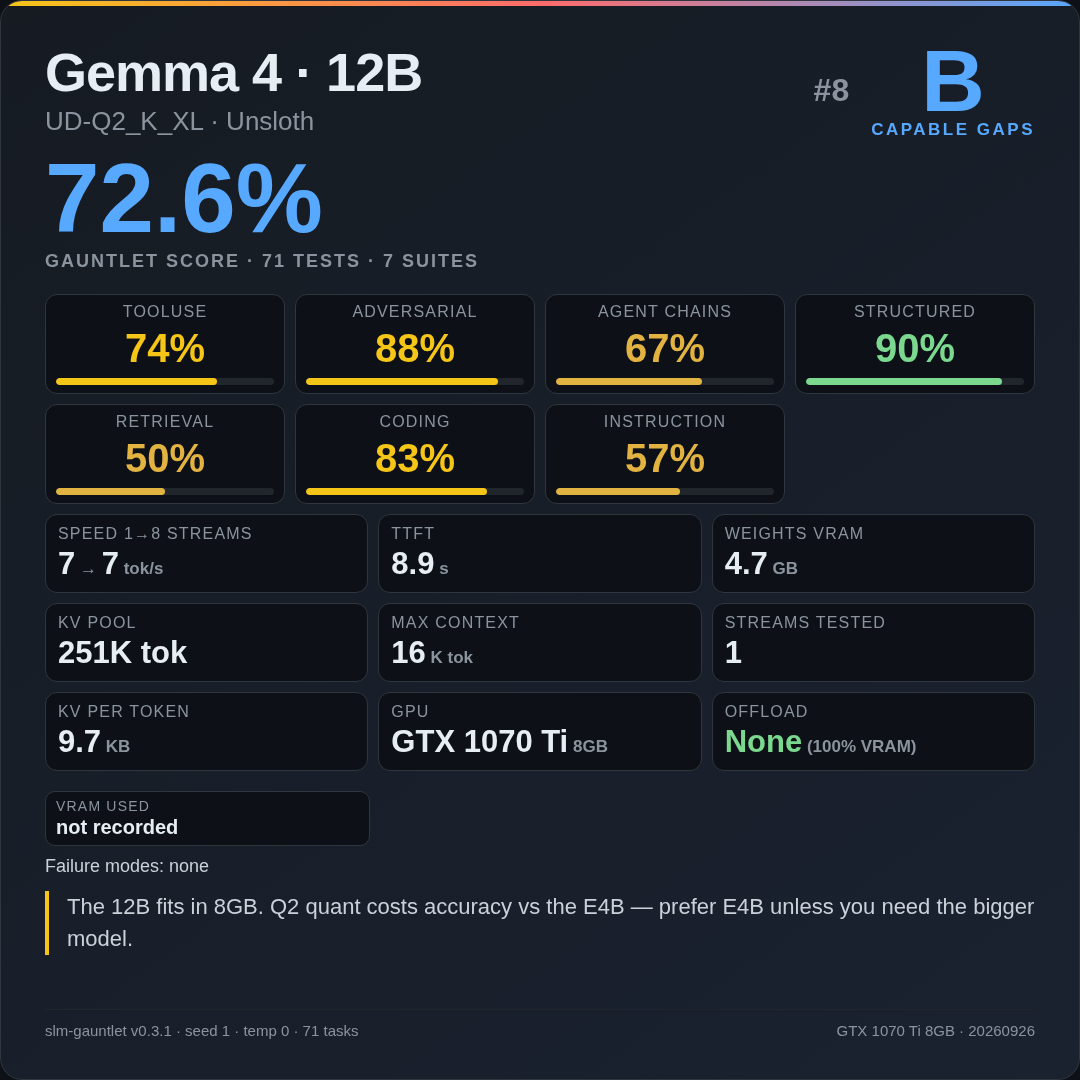
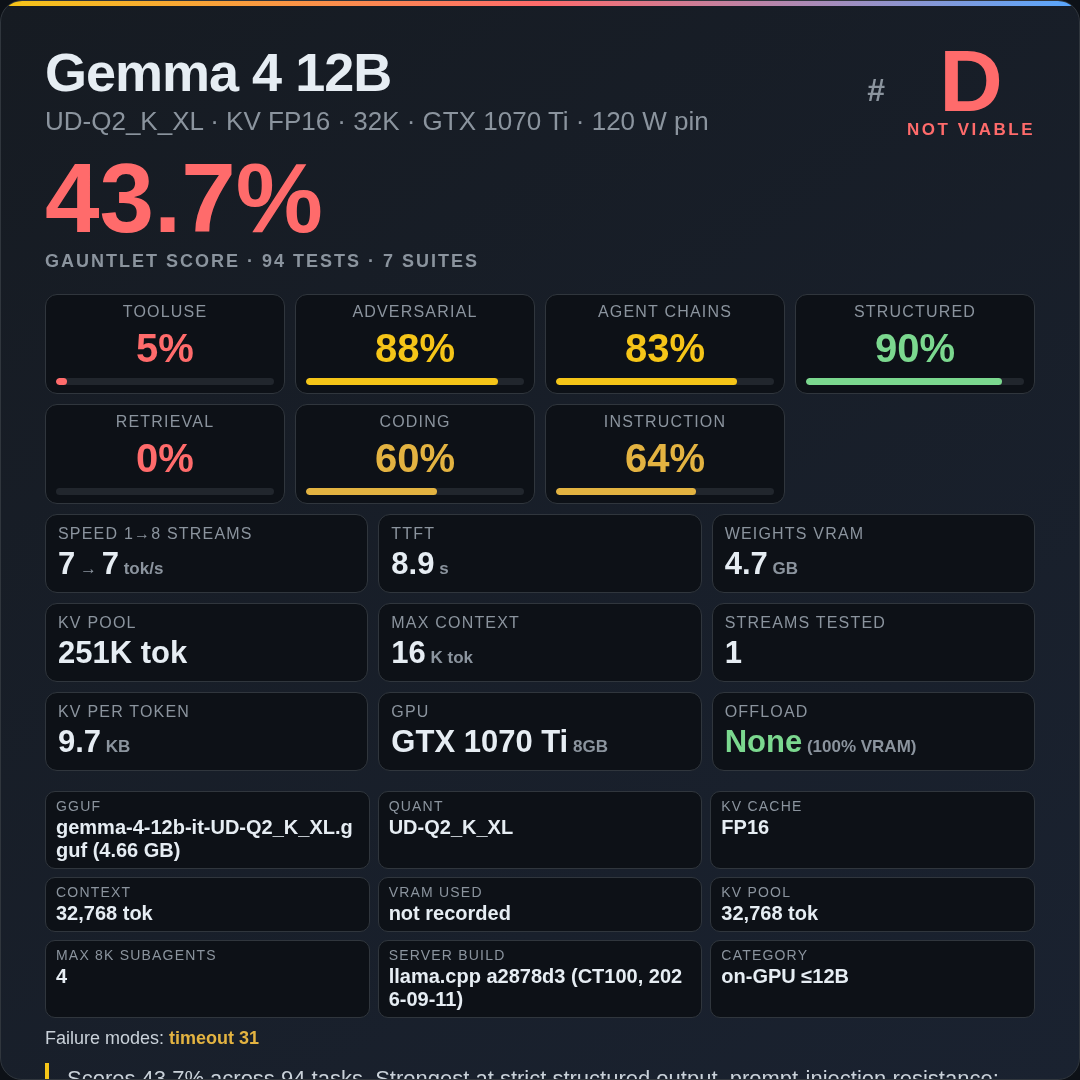
sweep complete: gemma4-12b-ud-q2_K_XL is the last configuration, measured 43.7% at 94 tasks
The 0.5.0 corpus is now measured end to end: 48 manifest configurations, 5 documented
exclusions (arch `dory`/`lfm3` cannot load on llama.cpp a2878d3), and 43 full 94-task runs
under the verified 120 W sustained pin.

The last one took 11,535 s (3h12m) on the 1070 Ti and is a genuine result, not a timeout
artifact: meta says attempts=102 for 94 tasks, zero_token_errors=0, transport_failure=false,
and it lands at 43.7% with tool 5% / retrieval 0% - a 12B at Q2 that fails the long-context
and tool-use suites on this card. It also drops from 72.6% at 71 tasks (pre-0.5.0), which is
why the two epochs are never printed in one table.

README: 16 ranked families, best on-GPU Bolt E4B UD-IQ3_XXS KV FP16 86.6%; Gemma 4 12B sits
last at 43.7%. leaderboard_check.py exits 0 on the corpus (268 cards), 190 tests pass.

diff --git a/results/cards/card_gemma4-12b-ud-q2_K_XL.html b/results/cards/card_gemma4-12b-ud-q2_K_XL.html
@@ -42,4 +42,4 @@ html,body { width:1080px; height:1080px; overflow:hidden; margin:0;
 @media (max-height:1080px){ .stat{padding:10px 12px} }
 .bar { height:7px; border-radius:4px; background:#21262d; margin-top:7px; overflow:hidden; }
 .bar>i { display:block; height:100%; border-radius:4px; }
-</style></head><body><div class=card><div class=hrow> <div><div class=model-name>Gemma 4 · 12B</div><div class=model-quant>UD-Q2_K_XL · Unsloth</div></div><div class=rank><span class=rank-num>#8</span><div><div class=rank-letter style="color:#57a8ff">B</div><div class=rank-label style="color:#57a8ff">CAPABLE GAPS</div></div></div></div><div class=scoreband><div><span class=overall-pct style="color:#57a8ff">72.6%</span><div class=overall-sub>GAUNTLET SCORE · 71 TESTS · 7 SUITES</div></div></div><div class=suites><div class=suite><div class=suite-name>tooluse</div><div class=suite-val style="color:#f5c518">74%</div><div class=bar><i style="width:74%;background:#f5c518"></i></div></div><div class=suite><div class=suite-name>adversarial</div><div class=suite-val style="color:#f5c518">88%</div><div class=bar><i style="width:88%;background:#f5c518"></i></div></div><div class=suite><div class=suite-name>agent chains</div><div class=suite-val style="color:#e3b341">67%</div><div class=bar><i style="width:67%;background:#e3b341"></i></div></div><div class=suite><div class=suite-name>structured</div><div class=suite-val style="color:#7bd88f">90%</div><div class=bar><i style="width:90%;background:#7bd88f"></i></div></div><div class=suite><div class=suite-name>retrieval</div><div class=suite-val style="color:#e3b341">50%</div><div class=bar><i style="width:50%;background:#e3b341"></i></div></div><div class=suite><div class=suite-name>coding</div><div class=suite-val style="color:#f5c518">83%</div><div class=bar><i style="width:83%;background:#f5c518"></i></div></div><div class=suite><div class=suite-name>instruction</div><div class=suite-val style="color:#e3b341">57%</div><div class=bar><i style="width:57%;background:#e3b341"></i></div></div></div><div class=stats><div class=stat><div class=stat-k>Speed 1→8 streams</div><div class=stat-v>7<small> → </small>7<small> tok/s</small></div></div><div class=stat><div class=stat-k>TTFT</div><div class=stat-v>8.9<small> s</small></div></div><div class=stat><div class=stat-k>Weights VRAM</div><div class=stat-v>4.7<small> GB</small></div></div><div class=stat><div class=stat-k>KV pool</div><div class=stat-v>251K tok</div></div><div class=stat><div class=stat-k>Max context</div><div class=stat-v>16<small> K tok</small></div></div><div class=stat><div class=stat-k>Streams tested</div><div class=stat-v>1</div></div><div class=stat><div class=stat-k>KV per token</div><div class=stat-v>9.7<small> KB</small></div></div><div class=stat><div class=stat-k>GPU</div><div class=stat-v>GTX 1070 Ti<small> 8GB</small></div></div><div class=stat><div class=stat-k>Offload</div><div class=stat-v style="color:#7bd88f">None<small> (100% VRAM)</small></div></div></div><div class=details-grid><div class=detail><div class=detail-k>VRAM used</div><div class=detail-v>not recorded</div></div></div><div class=failmodes>Failure modes: none</div><div class=verdict>The 12B fits in 8GB. Q2 quant costs accuracy vs the E4B — prefer E4B unless you need the bigger model.</div><div class=foot><span>slm-gauntlet v0.3.1 · seed 1 · temp 0 · 71 tasks</span><span>GTX 1070 Ti 8GB · 20260926</span></div></div></body></html>
+</style></head><body><div class=card><div class=hrow> <div><div class=model-name>Gemma 4 12B</div><div class=model-quant>UD-Q2_K_XL · KV FP16 · 32K · GTX 1070 Ti · 120 W pin</div></div><div class=rank><span class=rank-num>#</span><div><div class=rank-letter style="color:#ff6b6b">D</div><div class=rank-label style="color:#ff6b6b">NOT VIABLE</div></div></div></div><div class=scoreband><div><span class=overall-pct style="color:#ff6b6b">43.7%</span><div class=overall-sub>GAUNTLET SCORE · 94 TESTS · 7 SUITES</div></div></div><div class=suites><div class=suite><div class=suite-name>tooluse</div><div class=suite-val style="color:#ff6b6b">5%</div><div class=bar><i style="width:5%;background:#ff6b6b"></i></div></div><div class=suite><div class=suite-name>adversarial</div><div class=suite-val style="color:#f5c518">88%</div><div class=bar><i style="width:88%;background:#f5c518"></i></div></div><div class=suite><div class=suite-name>agent chains</div><div class=suite-val style="color:#f5c518">83%</div><div class=bar><i style="width:83%;background:#f5c518"></i></div></div><div class=suite><div class=suite-name>structured</div><div class=suite-val style="color:#7bd88f">90%</div><div class=bar><i style="width:90%;background:#7bd88f"></i></div></div><div class=suite><div class=suite-name>retrieval</div><div class=suite-val style="color:#ff6b6b">0%</div><div class=bar><i style="width:0%;background:#ff6b6b"></i></div></div><div class=suite><div class=suite-name>coding</div><div class=suite-val style="color:#e3b341">60%</div><div class=bar><i style="width:60%;background:#e3b341"></i></div></div><div class=suite><div class=suite-name>instruction</div><div class=suite-val style="color:#e3b341">64%</div><div class=bar><i style="width:64%;background:#e3b341"></i></div></div></div><div class=stats><div class=stat><div class=stat-k>Speed 1→8 streams</div><div class=stat-v>7<small> → </small>7<small> tok/s</small></div></div><div class=stat><div class=stat-k>TTFT</div><div class=stat-v>8.9<small> s</small></div></div><div class=stat><div class=stat-k>Weights VRAM</div><div class=stat-v>4.7<small> GB</small></div></div><div class=stat><div class=stat-k>KV pool</div><div class=stat-v>251K tok</div></div><div class=stat><div class=stat-k>Max context</div><div class=stat-v>16<small> K tok</small></div></div><div class=stat><div class=stat-k>Streams tested</div><div class=stat-v>1</div></div><div class=stat><div class=stat-k>KV per token</div><div class=stat-v>9.7<small> KB</small></div></div><div class=stat><div class=stat-k>GPU</div><div class=stat-v>GTX 1070 Ti<small> 8GB</small></div></div><div class=stat><div class=stat-k>Offload</div><div class=stat-v style="color:#7bd88f">None<small> (100% VRAM)</small></div></div></div><div class=details-grid><div class=detail><div class=detail-k>GGUF</div><div class=detail-v>gemma-4-12b-it-UD-Q2_K_XL.gguf (4.66 GB)</div></div><div class=detail><div class=detail-k>Quant</div><div class=detail-v>UD-Q2_K_XL</div></div><div class=detail><div class=detail-k>KV cache</div><div class=detail-v>FP16</div></div><div class=detail><div class=detail-k>Context</div><div class=detail-v>32,768 tok</div></div><div class=detail><div class=detail-k>VRAM used</div><div class=detail-v>not recorded</div></div><div class=detail><div class=detail-k>KV pool</div><div class=detail-v>32,768 tok</div></div><div class=detail><div class=detail-k>Max 8K subagents</div><div class=detail-v>4</div></div><div class=detail><div class=detail-k>Server build</div><div class=detail-v>llama.cpp a2878d3 (CT100, 2026-09-11)</div></div><div class=detail><div class=detail-k>Category</div><div class=detail-v>on-GPU ≤12B</div></div></div><div class=failmodes>Failure modes: <b>timeout 31</b></div><div class=verdict verdict-xs>Scores 43.7% across 94 tasks. Strongest at strict structured output, prompt-injection resistance; long-context retrieval is the weak suite. Zero-offload on GTX 1070 Ti 8GB.</div><div class=foot><span>slm-gauntlet v0.5.0 · seed 1 · temp 0 · 94 tasks</span><span>GTX 1070 Ti 8GB · 20261108</span></div></div></body></html>

diff --git a/README.md b/README.md
@@ -6,7 +6,7 @@ A benchmark for **small language models** (sub-12B class) that runs on whatever 
 
 **Current leaderboard — 94 tasks, scorer 0.5.0, PVE GTX 1070 Ti 8 GB, all layers on-GPU, zero CPU offload, temp 0, seed 1.**
 
-One row per model: the **best-scoring configuration** of that model in the corpus (42 scored configurations behind this table). Every score is the weighted aggregate defined in `scripts/leaderboard_check.py` and is recomputed from that run's log; the `Method` column carries the task count and scorer version for the row, so no row is ever compared across methodologies. Full per-configuration data: [`results/_published/LEADERBOARD.md`](results/_published/LEADERBOARD.md).
+One row per model: the **best-scoring configuration** of that model in the corpus (43 scored configurations behind this table). Every score is the weighted aggregate defined in `scripts/leaderboard_check.py` and is recomputed from that run's log; the `Method` column carries the task count and scorer version for the row, so no row is ever compared across methodologies. Full per-configuration data: [`results/_published/LEADERBOARD.md`](results/_published/LEADERBOARD.md).
 
 | Rank | Model | Best configuration | Score | Tool | Adv | Chains | Struct | Retr | Code | Instr | Method | Card |
 |---|---|---|---|---|---|---|---|---|---|---|---|---|
@@ -25,6 +25,7 @@ One row per model: the **best-scoring configuration** of that model in the corpu
 | 13 | LFM2.5-1.2B | Q8_0 · KV FP16 · 32K ctx | **54.2%** | 58% | 50% | 100% | 70% | 86% | 30% | 43% | 94 t · 0.5.0 | [png](results/cards/card_lfm25-1.2b-q8_0.png) |
 | 14 | LFM2.5-8B-A1B | UD-Q4_K_M · KV FP16 · 32K ctx | **52.8%** | 79% | 50% | 67% | 50% | 71% | 30% | 36% | 94 t · 0.5.0 | [png](results/cards/card_lfm25-8b-a1b-udq4km.png) |
 | 15 | Gemma 3n E4B | Q4_K_M · KV FP16 · 32K ctx | **52.4%** | 26% | 75% | 17% | 80% | 86% | 90% | 57% | 94 t · 0.5.0 | [png](results/cards/card_gemma-e4b-q4_K_M.png) |
+| 16 | Gemma 4 12B | UD-Q2_K_XL · KV FP16 · 32K ctx | **43.7%** | 5% | 88% | 83% | 90% | 0% | 60% | 64% | 94 t · 0.5.0 | [png](results/cards/card_gemma4-12b-ud-q2_K_XL.png) |
 
 **Legacy rows — NOT comparable, kept for provenance:** one row per model, its best-scoring pre-0.5.0 configuration; the 225 configurations behind them are listed in [`results/_published/LEADERBOARD.md`](results/_published/LEADERBOARD.md).
 

diff --git a/results/_published/LEADERBOARD.md b/results/_published/LEADERBOARD.md
@@ -383,6 +383,14 @@ Each family lists its **current-epoch** rows first, then its **pre-0.5.0** rows 
 |---|---|---|---|---|---|---|---|---|---|---|---|---|---|---|---|---|---|---|---|---|---|---|
 | Gemma 3n E4B | 94 t · 0.5.0 (current) | Jun 2025 | gemma-3n-E4B-it-Q4_K_M.gguf (4.54 GB) | Q4_K_M | FP16 | 32,768 | not recorded | 32,768 | 4 | **52.4%** | 26.3 | 80.0 | 85.7 | 90.0 | 57.1 | 75.0 | 16.7 | 5.42s | 13/13/13 | none | `cards/card_gemma-e4b-q4_K_M.png` | on-GPU ≤12B |
 
+### Gemma 4 · 12B
+
+**Current epoch — 94 tasks, scorer 0.5.0**
+
+| Model | Method | Release | GGUF file (size) | Quant | KV | Ctx | VRAM used / total | KV pool | Max subagents | Full % | Tool | Struct | Retr | Coding | Instr | Adv | Chains | TTFT | tok/s 1/4/8 | Failure modes | Card | Category |
+|---|---|---|---|---|---|---|---|---|---|---|---|---|---|---|---|---|---|---|---|---|---|---|
+| Gemma 4 12B | 94 t · 0.5.0 (current) | — | gemma-4-12b-it-UD-Q2_K_XL.gguf (4.66 GB) | UD-Q2_K_XL | FP16 | 32,768 | not recorded | 32,768 | 4 | **43.7%** | 5.3 | 90.0 | 0.0 | 60.0 | 64.3 | 87.5 | 83.3 | 8.95s | 7/7/7 | timeout 31 | `cards/card_gemma4-12b-ud-q2_K_XL.png` | on-GPU ≤12B |
+
 ### Gemma 4 · E4B
 
 **Current epoch — 94 tasks, scorer 0.5.0**
